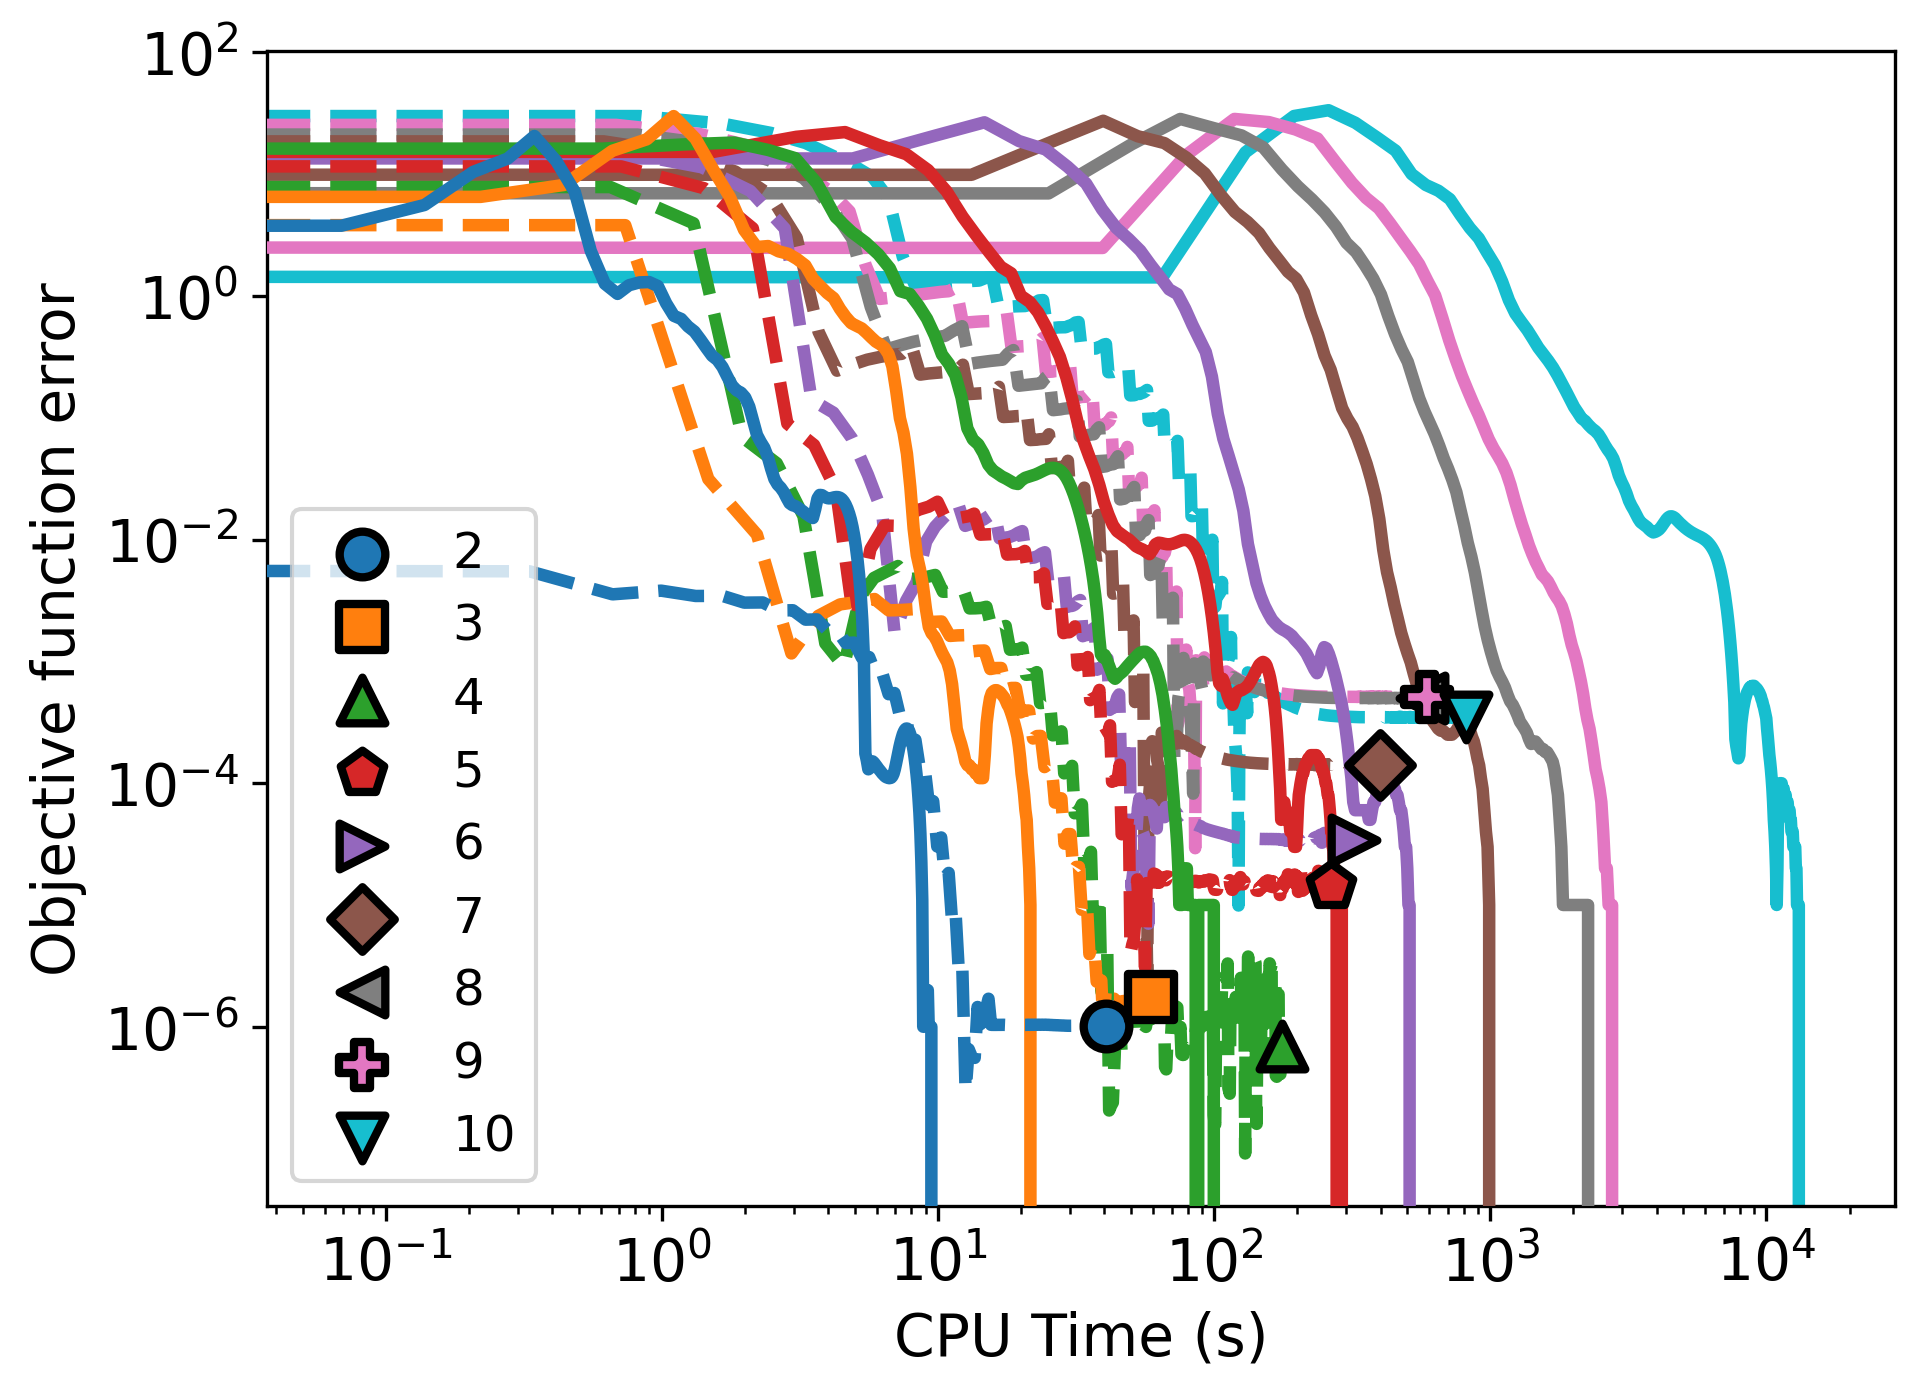
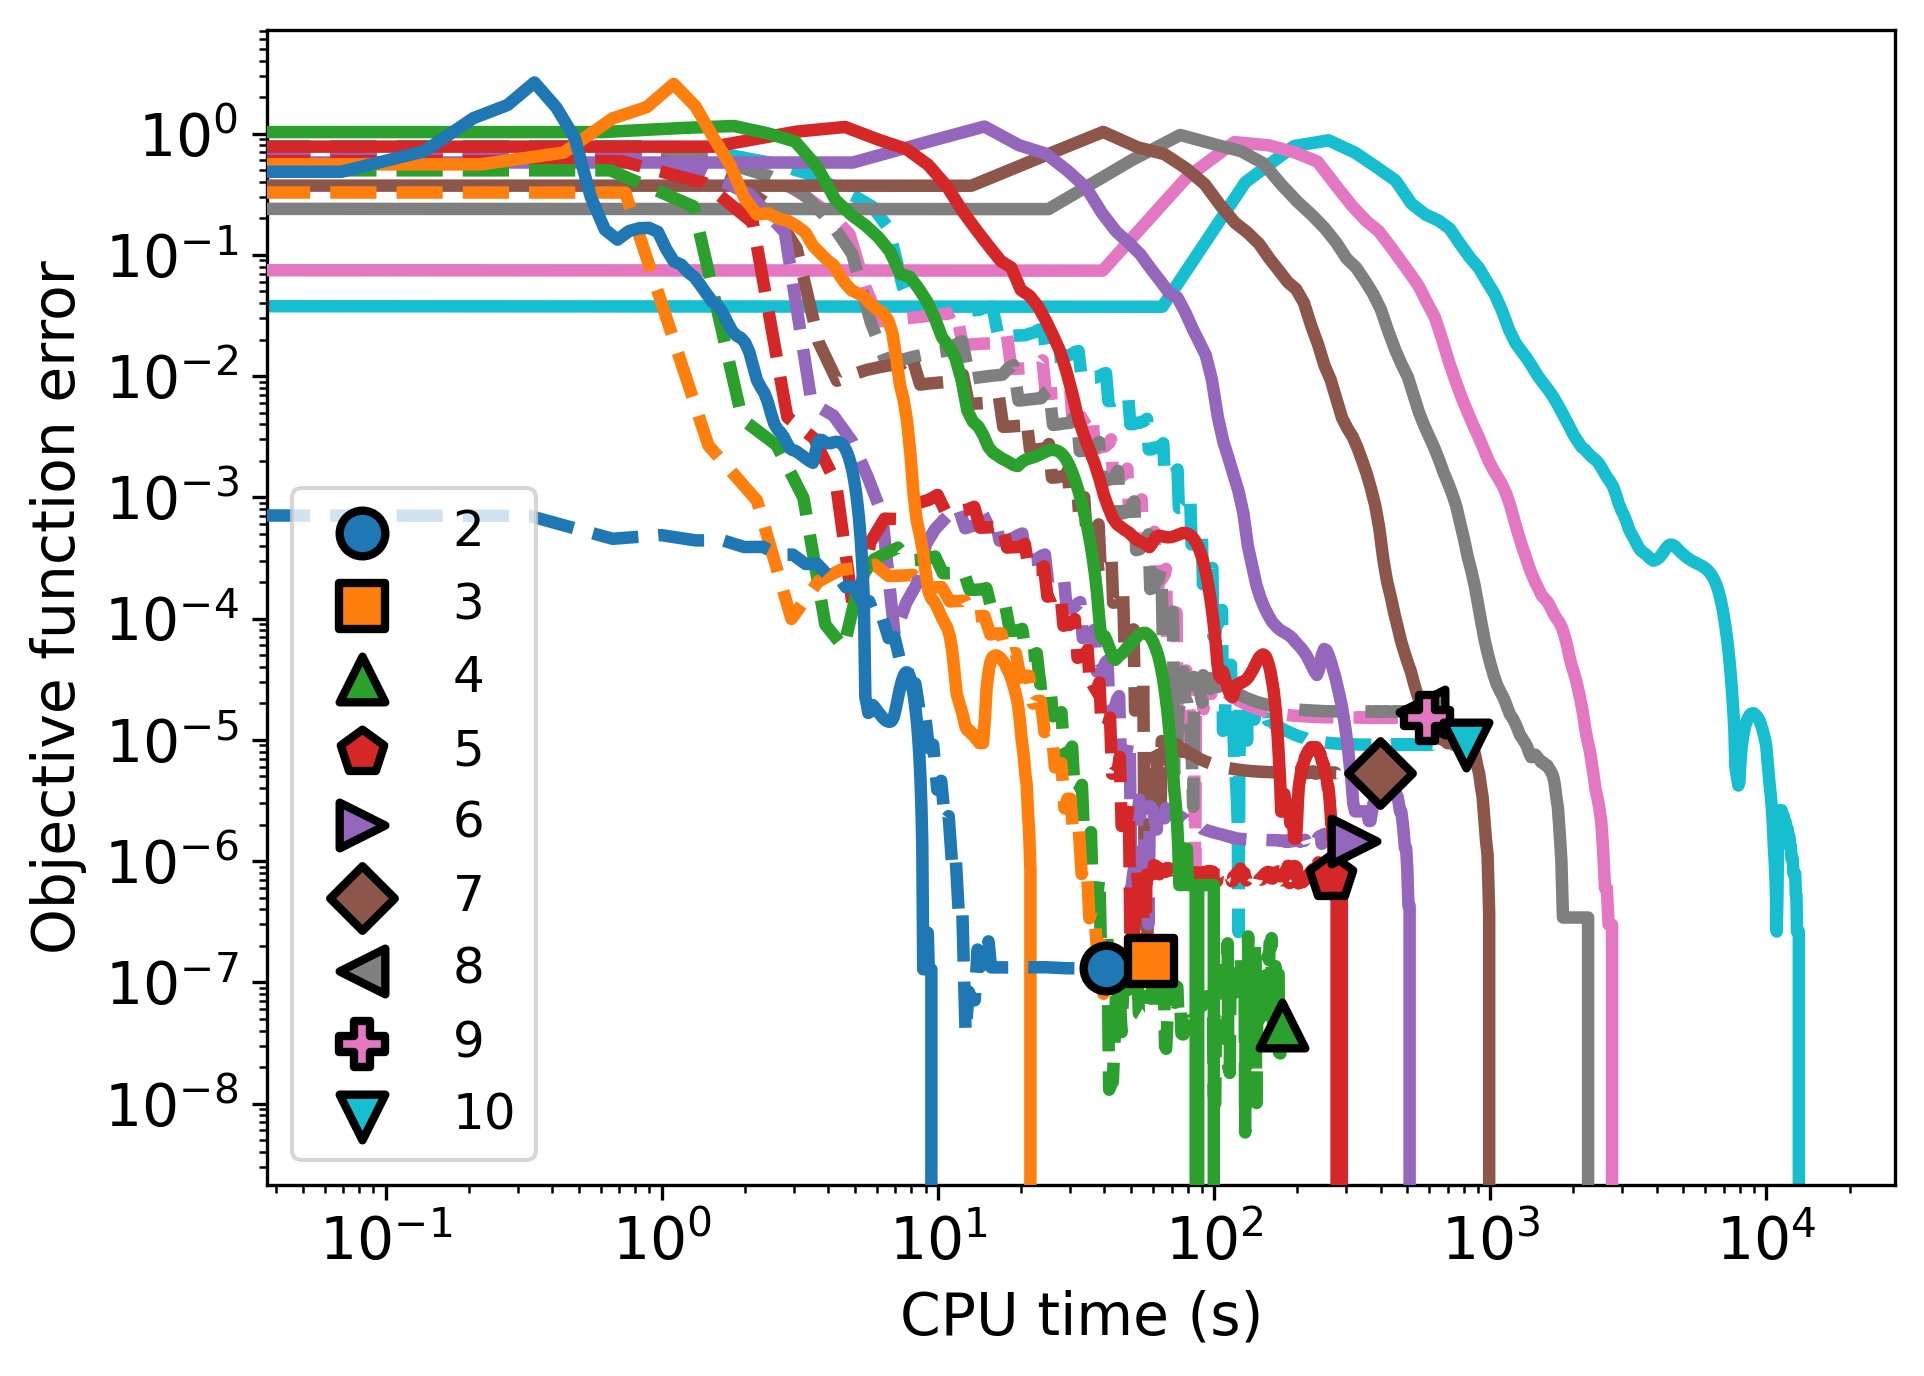
normalization

diff --git a/relaxation/convergence/convergence_plot.py b/relaxation/convergence/convergence_plot.py
@@ -126,25 +126,26 @@ with open('relaxation/convergence/obj9.pkl', 'rb') as f:
 with open('relaxation/convergence/obj10.pkl', 'rb') as f:
     obj10 = pickle.load(f)
 
-tm2 = np.linspace(0, 9.86, len(m2_major))
-tm3 = np.linspace(0, 24.22, len(m3_major))
-tm4 = np.linspace(0, 112.345, len(m4_major))
-tm5 = np.linspace(0, 386.23, len(m5_major))
-tm6 = np.linspace(0, 755.009, len(m6_major))
-tm7 = np.linspace(0, 1504.773, len(m7_major))
-tm8 = np.linspace(0, 2785.930, len(m8_major))
-tm9 = np.linspace(0, 3508.666, len(m9_major))
-tm10 = np.linspace(0, 15755.439, len(m10_major))
+t0 = 0
+tm2 = np.linspace(t0, 9.86, len(m2_major))
+tm3 = np.linspace(t0, 24.22, len(m3_major))
+tm4 = np.linspace(t0, 112.345, len(m4_major))
+tm5 = np.linspace(t0, 386.23, len(m5_major))
+tm6 = np.linspace(t0, 755.009, len(m6_major))
+tm7 = np.linspace(t0, 1504.773, len(m7_major))
+tm8 = np.linspace(t0, 2785.930, len(m8_major))
+tm9 = np.linspace(t0, 3508.666, len(m9_major))
+tm10 = np.linspace(t0, 15755.439, len(m10_major))
 
-td2 = np.linspace(0, 40.675, len(obj2))
-td3 = np.linspace(0, 58.815, len(obj3))
-td4 = np.linspace(0, 176.175, len(obj4))
-td5 = np.linspace(0, 265.7, len(obj5))
-td6 = np.linspace(0, 320.679, len(obj6))
-td7 = np.linspace(0, 399.415, len(obj7))
-td8 = np.linspace(0, 565.788, len(obj8))
-td9 = np.linspace(0, 588.668, len(obj9))
-td10 = np.linspace(0, 817.812, len(obj10))
+td2 = np.linspace(t0, 40.675, len(obj2))
+td3 = np.linspace(t0, 58.815, len(obj3))
+td4 = np.linspace(t0, 176.175, len(obj4))
+td5 = np.linspace(t0, 265.7, len(obj5))
+td6 = np.linspace(t0, 320.679, len(obj6))
+td7 = np.linspace(t0, 399.415, len(obj7))
+td8 = np.linspace(t0, 565.788, len(obj8))
+td9 = np.linspace(t0, 588.668, len(obj9))
+td10 = np.linspace(t0, 817.812, len(obj10))
 
 
 
@@ -166,49 +167,49 @@ plt.figure(figsize=(7, 5))
 plt.rcParams.update({'font.size': 14})
 
 
-plt.loglog(tm2, np.abs(m2_obj - f2), label='_nolegend_', linewidth=3, color='tab:blue', zorder=10)
-plt.loglog(td2, np.abs(obj2 - f2), label='_nolegend_', linewidth=3, color='tab:blue', linestyle='--', zorder=10)
+plt.loglog(tm2, np.abs(m2_obj - f2) / np.abs(f2), label='_nolegend_', linewidth=3, color='tab:blue', zorder=10)
+plt.loglog(td2, np.abs(obj2 - f2) / np.abs(f2), label='_nolegend_', linewidth=3, color='tab:blue', linestyle='--', zorder=10)
 
-plt.loglog(tm3, np.abs(m3_obj - f3), label='_nolegend_', linewidth=3, color='tab:orange', zorder=9)
-plt.loglog(td3, np.abs(obj3 - f3), label='_nolegend_', linewidth=3, color='tab:orange', linestyle='--', zorder=9)
+plt.loglog(tm3, np.abs(m3_obj - f3) / np.abs(f3), label='_nolegend_', linewidth=3, color='tab:orange', zorder=9)
+plt.loglog(td3, np.abs(obj3 - f3) / np.abs(f3), label='_nolegend_', linewidth=3, color='tab:orange', linestyle='--', zorder=9)
 
-plt.loglog(tm4, np.abs(m4_obj - f4), label='_nolegend_', linewidth=3, color='tab:green', zorder=8)
-plt.loglog(td4, np.abs(obj4 - f4), label='_nolegend_', linewidth=3, color='tab:green', linestyle='--', zorder=8)
+plt.loglog(tm4, np.abs(m4_obj - f4) / np.abs(f4), label='_nolegend_', linewidth=3, color='tab:green', zorder=8)
+plt.loglog(td4, np.abs(obj4 - f4) / np.abs(f4), label='_nolegend_', linewidth=3, color='tab:green', linestyle='--', zorder=8)
 
-plt.loglog(tm5, np.abs(m5_obj - f5), label='_nolegend_', linewidth=3, color='tab:red', zorder=7)
-plt.loglog(td5, np.abs(obj5 - f5), label='_nolegend_', linewidth=3, color='tab:red', linestyle='--', zorder=7)
+plt.loglog(tm5, np.abs(m5_obj - f5) / np.abs(f5), label='_nolegend_', linewidth=3, color='tab:red', zorder=7)
+plt.loglog(td5, np.abs(obj5 - f5) / np.abs(f5), label='_nolegend_', linewidth=3, color='tab:red', linestyle='--', zorder=7)
 
-plt.loglog(tm6, np.abs(m6_obj - f6), label='_nolegend_', linewidth=3, color='tab:purple', zorder=6)
-plt.loglog(td6, np.abs(obj6 - f6), label='_nolegend_', linewidth=3, color='tab:purple', linestyle='--', zorder=6)
+plt.loglog(tm6, np.abs(m6_obj - f6) / np.abs(f6), label='_nolegend_', linewidth=3, color='tab:purple', zorder=6)
+plt.loglog(td6, np.abs(obj6 - f6) / np.abs(f6), label='_nolegend_', linewidth=3, color='tab:purple', linestyle='--', zorder=6)
 
-plt.loglog(tm7, np.abs(m7_obj - f7), label='_nolegend_', linewidth=3, color='tab:brown', zorder=5)
-plt.loglog(td7, np.abs(obj7 - f7), label='_nolegend_', linewidth=3, color='tab:brown', linestyle='--', zorder=5)
+plt.loglog(tm7, np.abs(m7_obj - f7) / np.abs(f7), label='_nolegend_', linewidth=3, color='tab:brown', zorder=5)
+plt.loglog(td7, np.abs(obj7 - f7) / np.abs(f7), label='_nolegend_', linewidth=3, color='tab:brown', linestyle='--', zorder=5)
 
-plt.loglog(tm8, np.abs(m8_obj - f8), label='_nolegend_', linewidth=3, color='tab:gray', zorder=4)
-plt.loglog(td8, np.abs(obj8 - f8), label='_nolegend_', linewidth=3, color='tab:gray', linestyle='--', zorder=4)
+plt.loglog(tm8, np.abs(m8_obj - f8) / np.abs(f8), label='_nolegend_', linewidth=3, color='tab:gray', zorder=4)
+plt.loglog(td8, np.abs(obj8 - f8) / np.abs(f8), label='_nolegend_', linewidth=3, color='tab:gray', linestyle='--', zorder=4)
 
-plt.loglog(tm9, np.abs(m9_obj - f9), label='_nolegend_', linewidth=3, color='tab:pink', zorder=3)
-plt.loglog(td9, np.abs(obj9 - f9), label='_nolegend_', linewidth=3, color='tab:pink', linestyle='--', zorder=3)
+plt.loglog(tm9, np.abs(m9_obj - f9) / np.abs(f9), label='_nolegend_', linewidth=3, color='tab:pink', zorder=3)
+plt.loglog(td9, np.abs(obj9 - f9) / np.abs(f9), label='_nolegend_', linewidth=3, color='tab:pink', linestyle='--', zorder=3)
 
-plt.loglog(tm10, np.abs(m10_obj - f10), label='_nolegend_', linewidth=3, color='tab:cyan', zorder=2)
-plt.loglog(td10, np.abs(obj10 - f10), label='_nolegend_', linewidth=3, color='tab:cyan', linestyle='--', zorder=2)
+plt.loglog(tm10, np.abs(m10_obj - f10) / np.abs(f10), label='_nolegend_', linewidth=3, color='tab:cyan', zorder=2)
+plt.loglog(td10, np.abs(obj10 - f10) / np.abs(f10), label='_nolegend_', linewidth=3, color='tab:cyan', linestyle='--', zorder=2)
 
 
 
-plt.scatter(td2[-1], np.abs(obj2[-1] - f2), color='tab:blue', marker='o', s=120, label='2', linewidths=2, edgecolors='black', zorder=10,)
-plt.scatter(td3[-1], np.abs(obj3[-1] - f3), color='tab:orange', marker='s', s=120, label='3', linewidths=2, edgecolors='black', zorder=10,)
-plt.scatter(td4[-1], np.abs(obj4[-1] - f4), color='tab:green', marker='^', s=120, label='4', linewidths=2, edgecolors='black', zorder=10,)
-plt.scatter(td5[-1], np.abs(obj5[-1] - f5), color='tab:red', marker='p', s=120, label='5', linewidths=2, edgecolors='black', zorder=10,)
-plt.scatter(td6[-1], np.abs(obj6[-1] - f6), color='tab:purple', marker='>', s=120, label='6', linewidths=2, edgecolors='black', zorder=10,)
-plt.scatter(td7[-1], np.abs(obj7[-1] - f7), color='tab:brown', marker='D', s=120, label='7', linewidths=2, edgecolors='black', zorder=10,)
-plt.scatter(td8[-1], np.abs(obj8[-1] - f8), color='tab:gray', marker='<', s=120, label='8', linewidths=2, edgecolors='black', zorder=10,)
-plt.scatter(td9[-1], np.abs(obj9[-1] - f9), color='tab:pink', marker='P', s=120, label='9', linewidths=2, edgecolors='black', zorder=10,)
-plt.scatter(td10[-1], np.abs(obj10[-1] - f10), color='tab:cyan', marker='v', s=120, label='10', linewidths=2, edgecolors='black', zorder=10,)
+plt.scatter(td2[-1], np.abs(obj2[-1] - f2) / np.abs(f2), color='tab:blue', marker='o', s=120, label='2', linewidths=2, edgecolors='black', zorder=10,)
+plt.scatter(td3[-1], np.abs(obj3[-1] - f3) / np.abs(f3), color='tab:orange', marker='s', s=120, label='3', linewidths=2, edgecolors='black', zorder=10,)
+plt.scatter(td4[-1], np.abs(obj4[-1] - f4) / np.abs(f4), color='tab:green', marker='^', s=120, label='4', linewidths=2, edgecolors='black', zorder=10,)
+plt.scatter(td5[-1], np.abs(obj5[-1] - f5) / np.abs(f5), color='tab:red', marker='p', s=120, label='5', linewidths=2, edgecolors='black', zorder=10,)
+plt.scatter(td6[-1], np.abs(obj6[-1] - f6) / np.abs(f6), color='tab:purple', marker='>', s=120, label='6', linewidths=2, edgecolors='black', zorder=10,)
+plt.scatter(td7[-1], np.abs(obj7[-1] - f7) / np.abs(f7), color='tab:brown', marker='D', s=120, label='7', linewidths=2, edgecolors='black', zorder=10,)
+plt.scatter(td8[-1], np.abs(obj8[-1] - f8) / np.abs(f8), color='tab:gray', marker='<', s=120, label='8', linewidths=2, edgecolors='black', zorder=10,)
+plt.scatter(td9[-1], np.abs(obj9[-1] - f9) / np.abs(f9), color='tab:pink', marker='P', s=120, label='9', linewidths=2, edgecolors='black', zorder=10,)
+plt.scatter(td10[-1], np.abs(obj10[-1] - f10) / np.abs(f10), color='tab:cyan', marker='v', s=120, label='10', linewidths=2, edgecolors='black', zorder=10,)
 
 
 
 plt.ylabel('Objective function error')
-plt.xlabel('CPU Time (s)')
+plt.xlabel('CPU time (s)')
 leg = plt.legend(fontsize=12,)
 leg.zorder = 11
 plt.savefig('convergence.png', dpi=300, transparent=True, bbox_inches='tight')
